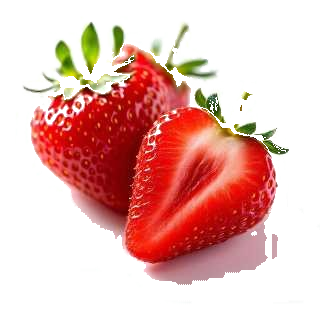
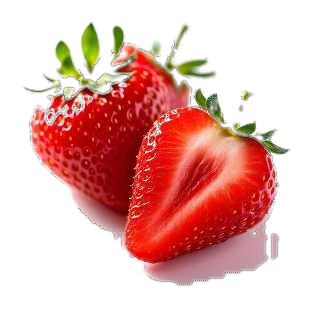
Relocate strawberry and banana to the right side on mobile layout and clean up real_strawberry.png background edges

diff --git a/style.css b/style.css
@@ -2702,8 +2702,8 @@ body.dark-mode .partner-title {
     .fl-2 { bottom: 5% !important; left: -10px !important; right: auto !important; }
     .fl-3 { top: 2% !important; right: -15px !important; left: auto !important; }
     .fl-4 { bottom: 15% !important; right: -10px !important; left: auto !important; }
-    .fl-5 { top: 45% !important; left: -15px !important; right: auto !important; }
-    .fl-6 { top: 12% !important; left: -20px !important; right: auto !important; }
+    .fl-5 { top: 62% !important; right: -20px !important; left: auto !important; }
+    .fl-6 { top: 48% !important; right: -20px !important; left: auto !important; }
     .fl-7 { top: 85% !important; left: -15px !important; right: auto !important; }
     .fl-8 { top: 75% !important; right: -15px !important; left: auto !important; }
     .fl-9 { top: 22% !important; right: -10px !important; left: auto !important; }

diff --git a/about.html b/about.html
@@ -12,7 +12,7 @@
     <!-- FontAwesome for Icons -->
     <link rel="stylesheet" href="https://cdnjs.cloudflare.com/ajax/libs/font-awesome/6.4.0/css/all.min.css">
     <!-- Main Stylesheet -->
-    <link rel="stylesheet" href="style.css?v=74">
+    <link rel="stylesheet" href="style.css?v=75">
     <style>
         .about-page-hero {
             padding: 160px 0 100px 0;

diff --git a/admin.html b/admin.html
@@ -14,7 +14,7 @@
     <link rel="stylesheet" href="https://cdnjs.cloudflare.com/ajax/libs/font-awesome/6.4.0/css/all.min.css">
     
     <!-- Base Stylesheet -->
-    <link rel="stylesheet" href="style.css?v=74">
+    <link rel="stylesheet" href="style.css?v=75">
     
     <style>
         .admin-container {

diff --git a/contact.html b/contact.html
@@ -12,7 +12,7 @@
     <!-- FontAwesome for Icons -->
     <link rel="stylesheet" href="https://cdnjs.cloudflare.com/ajax/libs/font-awesome/6.4.0/css/all.min.css">
     <!-- Main Stylesheet -->
-    <link rel="stylesheet" href="style.css?v=74">
+    <link rel="stylesheet" href="style.css?v=75">
     <style>
         .contact-page-hero {
             padding: 160px 0 100px 0;

diff --git a/franchises.html b/franchises.html
@@ -12,7 +12,7 @@
     <!-- FontAwesome for Icons -->
     <link rel="stylesheet" href="https://cdnjs.cloudflare.com/ajax/libs/font-awesome/6.4.0/css/all.min.css">
     <!-- Main Stylesheet -->
-    <link rel="stylesheet" href="style.css?v=74">
+    <link rel="stylesheet" href="style.css?v=75">
     <style>
         .franchise-page-hero {
             padding: 160px 0 100px 0;

diff --git a/index.html b/index.html
@@ -12,7 +12,7 @@
     <!-- FontAwesome for Icons -->
     <link rel="stylesheet" href="https://cdnjs.cloudflare.com/ajax/libs/font-awesome/6.4.0/css/all.min.css">
     <!-- Main Stylesheet -->
-    <link rel="stylesheet" href="style.css?v=74">
+    <link rel="stylesheet" href="style.css?v=75">
 </head>
 <body class="home-page">
     <!-- Page Loader -->

diff --git a/login.html b/login.html
@@ -14,7 +14,7 @@
     <link rel="stylesheet" href="https://cdnjs.cloudflare.com/ajax/libs/font-awesome/6.4.0/css/all.min.css">
     
     <!-- Base Stylesheet -->
-    <link rel="stylesheet" href="style.css?v=74">
+    <link rel="stylesheet" href="style.css?v=75">
     
     <style>
         .auth-container {

diff --git a/profile.html b/profile.html
@@ -14,7 +14,7 @@
     <link rel="stylesheet" href="https://cdnjs.cloudflare.com/ajax/libs/font-awesome/6.4.0/css/all.min.css">
     
     <!-- Base Stylesheet -->
-    <link rel="stylesheet" href="style.css?v=74">
+    <link rel="stylesheet" href="style.css?v=75">
     
     <style>
         .profile-container {

diff --git a/subscriptions.html b/subscriptions.html
@@ -14,7 +14,7 @@
     <link rel="stylesheet" href="https://cdnjs.cloudflare.com/ajax/libs/font-awesome/6.4.0/css/all.min.css">
     
     <!-- Base Stylesheet -->
-    <link rel="stylesheet" href="style.css?v=74">
+    <link rel="stylesheet" href="style.css?v=75">
     
     <style>
         /* Subscriptions Hero */